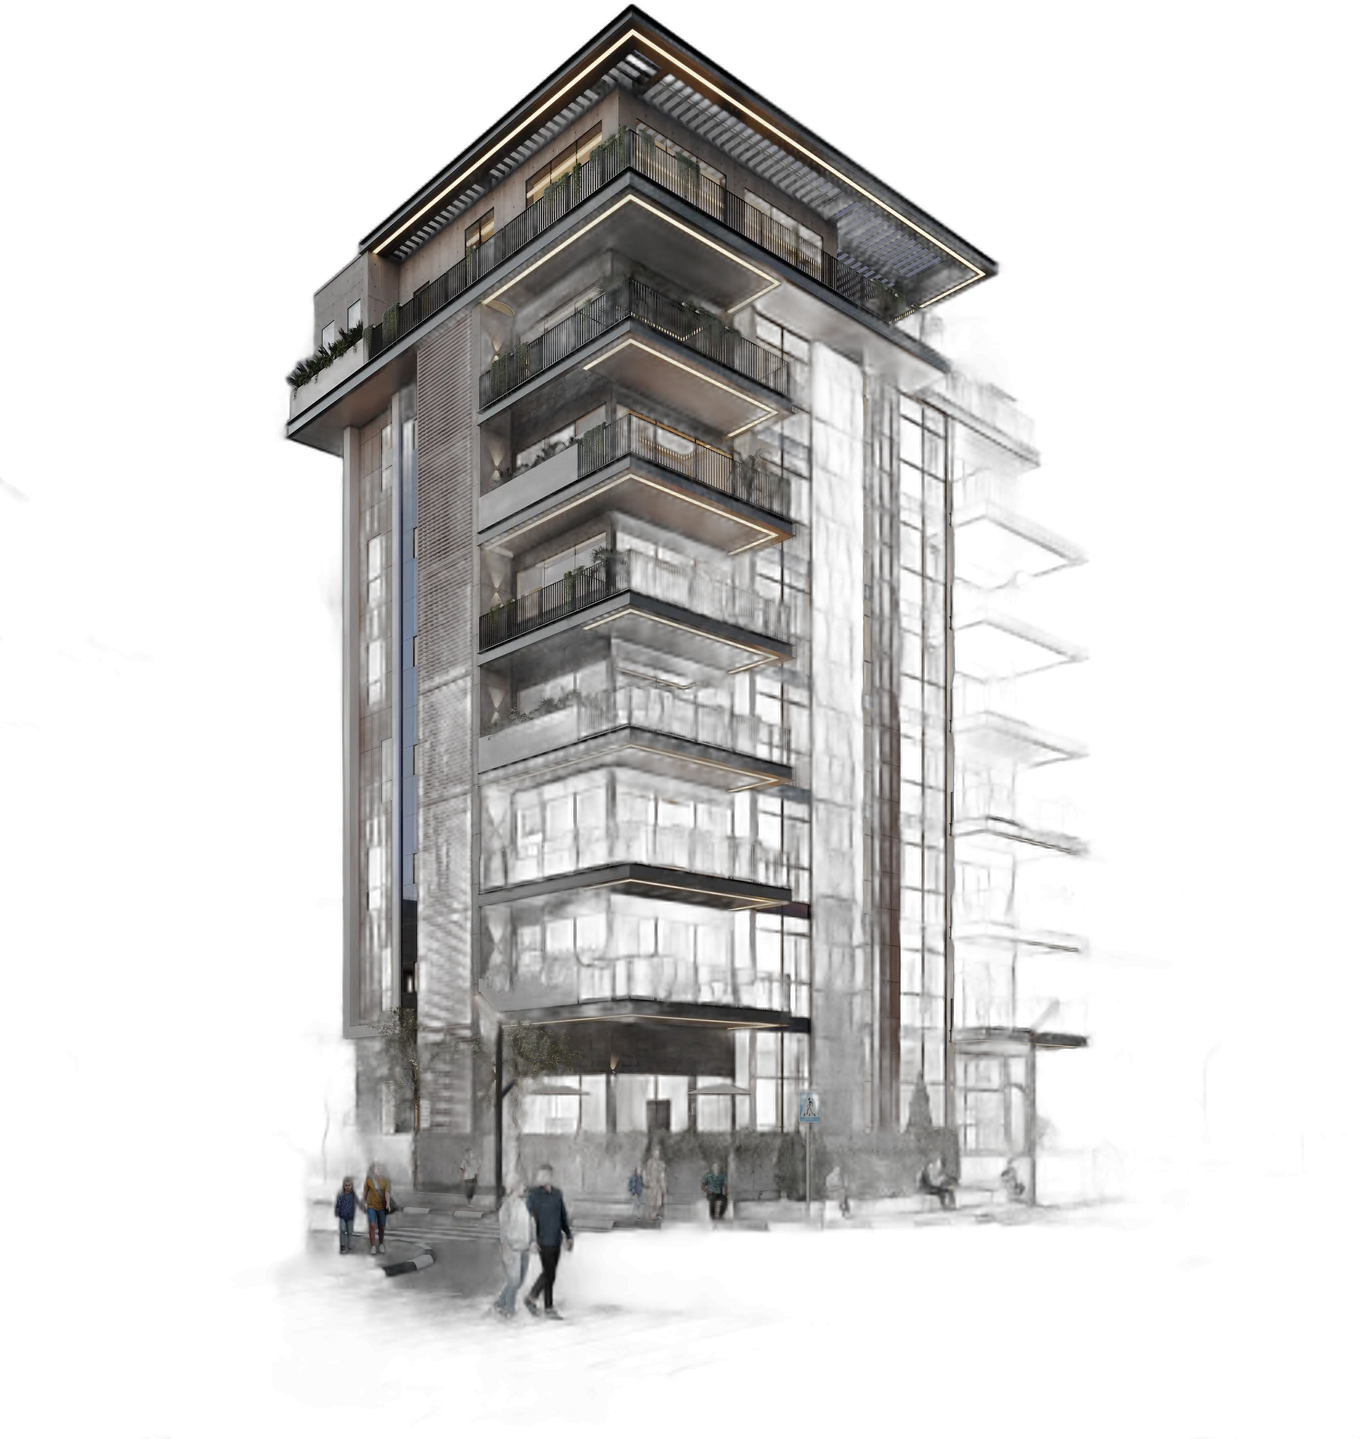
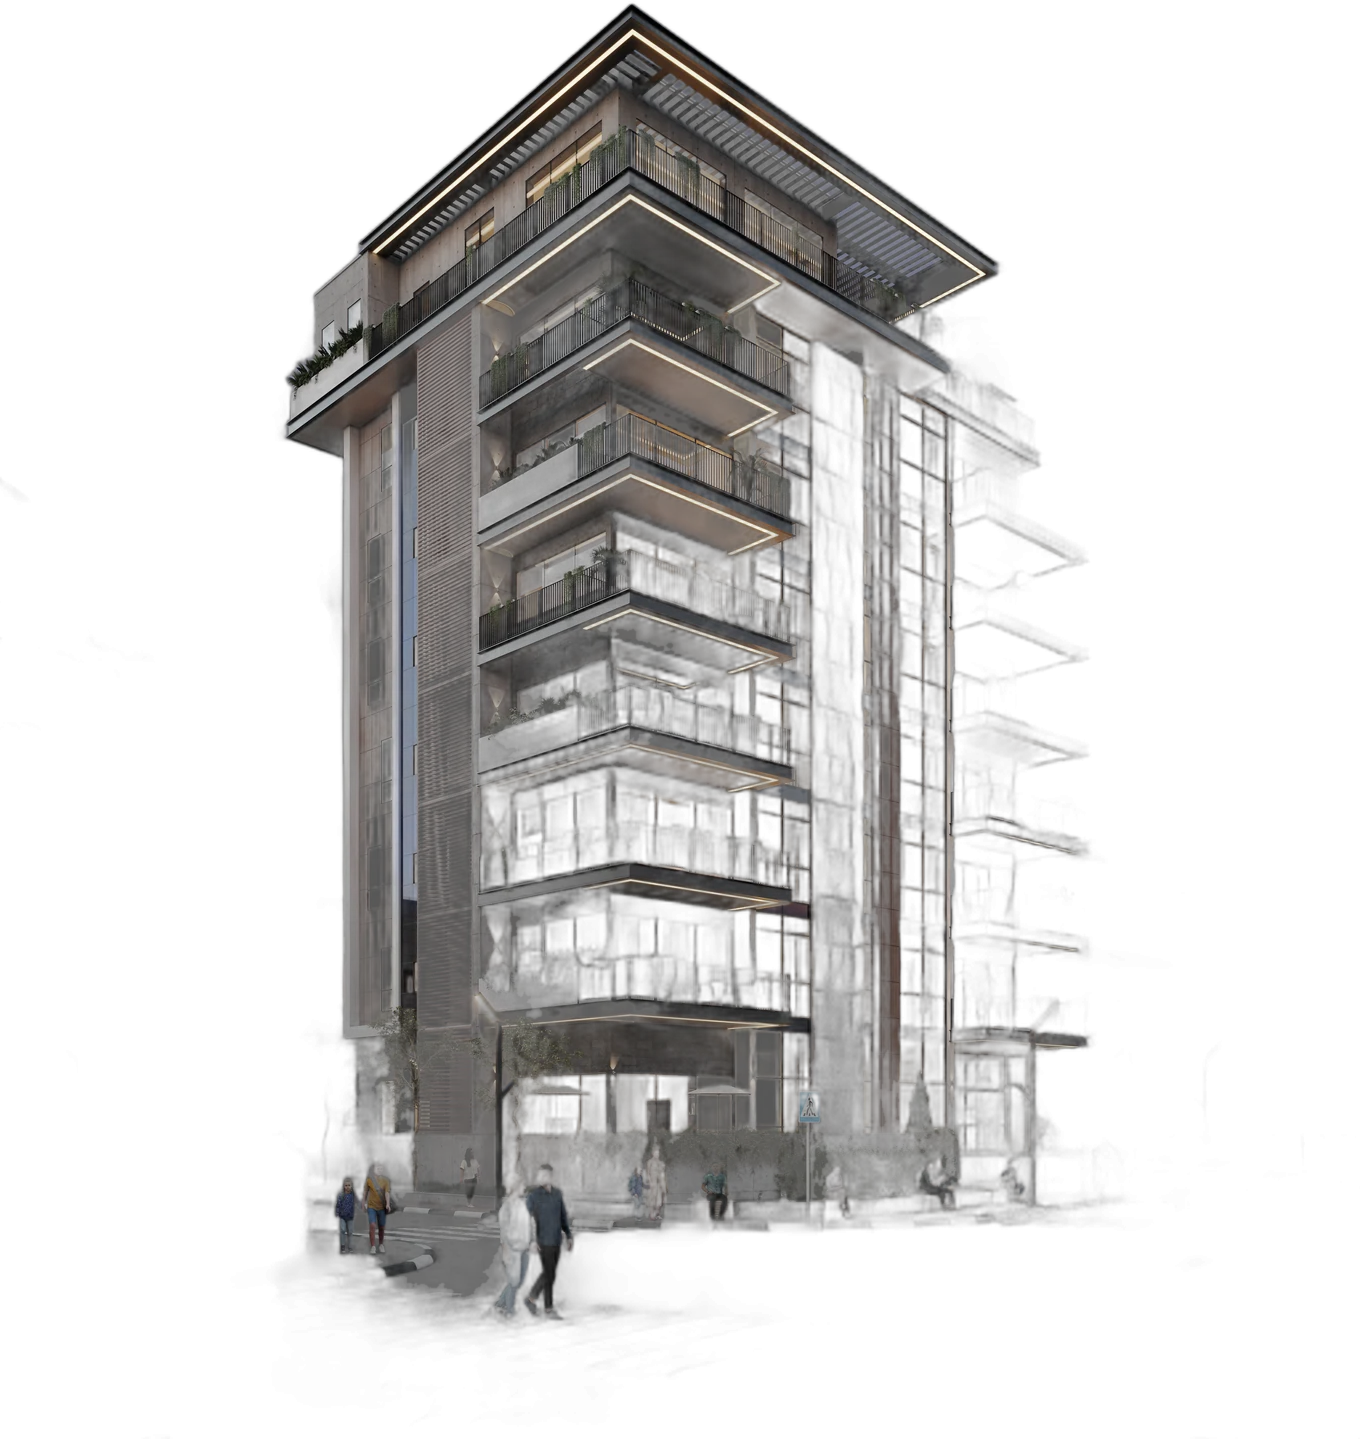
Cinema v3: camera orbits the building (3 scrolls) then enters the lobby (4th)
- Camera now circles Har Avital via rotateY (minimal vertical motion) instead of up/down
- Three faces cross-fade as it turns: front(day) → side → night, over the day→sunset→night sky
- Cutouts regenerated with interior holes filled (no more sky showing through the structure)
- Final scroll dollies the building toward the viewer and fades into the real lobby photo (enter)
- Lobby image EXIF-corrected + optimized; chapters condensed to 4 (hero, statement, domains, lobby)

diff --git a/index.html b/index.html
@@ -116,9 +116,16 @@
   .cino-warm{position:absolute;left:50%;top:50%;width:80vmin;height:80vmin;transform:translate(-50%,-50%);
     border-radius:50%;background:radial-gradient(circle,rgba(243,214,160,.55),rgba(243,214,160,0) 60%);filter:blur(10px);opacity:0;}
   .cino-build{position:relative;height:min(82vh,64vw);aspect-ratio:1360/1439;transform-style:preserve-3d;
-    will-change:transform;filter:drop-shadow(0 30px 38px rgba(18,16,28,.42));}
+    will-change:transform,opacity;filter:drop-shadow(0 30px 38px rgba(18,16,28,.42));}
   .cino-build .bl{position:absolute;inset:0;width:100%;height:100%;object-fit:contain;backface-visibility:hidden;}
-  .cino-build .bl.night{opacity:0;}
+  .cino-build .bl.side,.cino-build .bl.night{opacity:0;}
+
+  /* lobby — the camera "enters" on the final scroll */
+  .cino-lobby{position:absolute;inset:0;opacity:0;overflow:hidden;will-change:opacity;}
+  .cino-lobby img{width:100%;height:100%;object-fit:cover;transform:scale(1.28);transform-origin:50% 42%;will-change:transform;}
+  .cino-lobby::after{content:"";position:absolute;inset:0;
+    background:radial-gradient(125% 95% at 50% 38%, rgba(10,8,14,0) 42%, rgba(10,8,14,.55) 100%);}
+  .lobby-panel{text-shadow:0 2px 24px rgba(0,0,0,.55);}
 
   .cino-scrim{position:absolute;inset-inline:0;bottom:0;height:44vh;display:none;pointer-events:none;
     background:linear-gradient(0deg,rgba(8,10,22,.52) 4%,rgba(8,10,22,0) 58%);}
@@ -378,14 +385,19 @@
     <div class="cino-glow" id="cinoGlow"></div>
     <div class="cino-warm" id="cinoWarm"></div>
     <div class="cino-build" id="cinoBuild">
-      <img class="bl lit"   id="blLit"   src="assets/har-avital/cut/side.webp"  alt="הר אביטל" />
+      <img class="bl day"   id="blDay"   src="assets/har-avital/cut/day.webp"   alt="הר אביטל — חזית" />
+      <img class="bl side"  id="blSide"  src="assets/har-avital/cut/side.webp"  alt="הר אביטל — צד" />
       <img class="bl night" id="blNight" src="assets/har-avital/cut/night.webp" alt="הר אביטל — לילה" />
     </div>
   </div>
+
+  <!-- lobby layer (camera enters on the final scroll) -->
+  <div class="cino-lobby" id="cinoLobby"><img src="assets/har-avital/cut/lobby.webp" alt="לובי הכניסה" /></div>
+
   <div class="cino-scrim"></div>
 
   <div class="cino-chapters" id="cinoChapters">
-    <!-- 0 · Hero -->
+    <!-- 0 · Hero (front) -->
     <div class="cchap" data-ch="0">
       <div class="cpanel pos-hero">
         <div class="eyebrow ce">נדל״ן · התחדשות עירונית · בנייה</div>
@@ -394,42 +406,37 @@
         <a href="#projects" class="ccta" data-hot><span class="ln2"></span> גלו את הפרויקטים</a>
       </div>
     </div>
-    <!-- 1 · Statement -->
+    <!-- 1 · Statement (orbit → side) -->
     <div class="cchap" data-ch="1">
       <div class="cpanel pos-center">
         <p class="big">בית טוב לא נמדד ביום המסירה —<br><b>אלא בעשרים השנה שאחריו.</b></p>
       </div>
     </div>
-    <!-- 2 · Domain A -->
+    <!-- 2 · Domains (orbit → other side, dusk) -->
     <div class="cchap" data-ch="2">
       <div class="cpanel pos-right">
-        <div class="dnum">א׳ · תחום ראשון</div>
-        <h2>התחדשות <em>עירונית</em></h2>
-        <p class="ctext">פינוי-בינוי ותמ״א — הופכים מתחמים ותיקים לשכונות חדשות, עם ליווי הדיירים בכל שלב ושקיפות מלאה.</p>
+        <div class="dnum">שלושה תחומים · בית אחד</div>
+        <h2>שלוש דרכים <em>לבנות בית.</em></h2>
+        <p class="ctext">
+          <b style="color:var(--green)">התחדשות עירונית</b> — פינוי-בינוי ותמ״א.<br>
+          <b style="color:var(--green)">מחיר למשתכן</b> — דירה ראשונה לזוגות צעירים.<br>
+          <b style="color:var(--green)">בנייה למגורים</b> — מגדלי בוטיק חדשים.
+        </p>
         <div class="led-bars"><i></i><i></i><i></i><i></i><i></i></div>
       </div>
     </div>
-    <!-- 3 · Domain B -->
+    <!-- 3 · Lobby (enter the building) -->
     <div class="cchap" data-ch="3">
-      <div class="cpanel pos-left">
-        <div class="dnum">ב׳ · תחום שני</div>
-        <h2>מחיר <em>למשתכן</em></h2>
-        <p class="ctext">מימוש מכרזי המדינה לדירה ראשונה — מלווים זוגות צעירים ומשפחות מההגרלה ועד קבלת המפתח.</p>
-        <div class="led-bars"><i></i><i></i><i></i><i></i><i></i></div>
-      </div>
-    </div>
-    <!-- 4 · Domain C -->
-    <div class="cchap" data-ch="4">
-      <div class="cpanel pos-bottom">
-        <div class="dnum">ג׳ · תחום שלישי</div>
-        <h2>בנייה <em>למגורים</em></h2>
-        <p class="ctext">מגדלי בוטיק ופרויקטים חדשים בשפה אדריכלית עכשווית — מהתכנון, דרך הביצוע, ועד המסירה.</p>
+      <div class="cpanel pos-center lobby-panel">
+        <div class="dnum" style="color:var(--led)">קומת הכניסה</div>
+        <h2>ברוכים הבאים <em style="color:#fff">הביתה.</em></h2>
+        <a href="#projects" class="ccta" data-hot style="color:#fff"><span class="ln2" style="background:var(--led)"></span> כנסו לפרויקטים</a>
       </div>
     </div>
   </div>
 
-  <div class="cino-rail" id="cinoRail"><i></i><i></i><i></i><i></i><i></i></div>
-  <div class="cino-count">פרק <b id="cinoCount">01</b> · 05</div>
+  <div class="cino-rail" id="cinoRail"><i></i><i></i><i></i><i></i></div>
+  <div class="cino-count">פרק <b id="cinoCount">01</b> · 04</div>
   <div class="cino-cue" id="cinoCue"><span></span>גלילה</div>
 </div>
 
@@ -635,9 +642,10 @@
 (function(){
   var reduce = matchMedia('(prefers-reduced-motion: reduce)').matches;
   var build  = document.getElementById('cinoBuild');
-  var blLit=document.getElementById('blLit'), blNight=document.getElementById('blNight');
+  var blDay=document.getElementById('blDay'), blSide=document.getElementById('blSide'), blNight=document.getElementById('blNight');
   var glow=document.getElementById('cinoGlow'), warm=document.getElementById('cinoWarm');
   var stage=document.getElementById('cinoStage');
+  var lobby=document.getElementById('cinoLobby'), lobbyImg=lobby.querySelector('img');
   var skySunset=document.getElementById('skySunset'), skyNight=document.getElementById('skyNight');
   var sun=document.getElementById('sun'), stars=document.getElementById('stars');
   var chaptersEl=document.getElementById('cinoChapters');
@@ -646,23 +654,21 @@
   var counter=document.getElementById('cinoCount');
   var cue=document.getElementById('cinoCue');
   var scrollEl=document.getElementById('cinoScroll');
-  var N=chapters.length;                 // cinematic chapters (5)
+  var N=chapters.length;                 // 4 chapters: front · side · other side · lobby
 
   function sizeSpacer(){ scrollEl.style.height=(N*100)+'svh'; }
   sizeSpacer();
-  if(reduce){ scrollEl.style.height='0'; return; } // reduced-motion: chapters stack via CSS
+  if(reduce){ scrollEl.style.height='0'; return; }
 
-  /* transform-only camera states (index 0..N; N = exit). x,y vw/vh · rx/ry/rz deg · s scale.
-     Sky, sun and the day→night building cross-fade are derived from overall progress. */
+  /* camera ORBIT states (index 0..N). Mostly rotateY (turn around the building),
+     minimal vertical motion; the final leg dollies in toward the lobby. */
   var S=[
-    {x:-4, y:-3, rx:4,  ry:-15, rz:-1, s:1.00}, // 0 hero
-    {x: 3, y: 9, rx:8,  ry:  3, rz: 1, s:0.84}, // 1 statement (descend)
-    {x:-15,y: 2, rx:6,  ry:-30, rz:-3, s:0.74}, // 2 domain A (turn left)
-    {x: 15,y: 4, rx:6,  ry: 30, rz: 3, s:0.74}, // 3 domain B (turn right)
-    {x: 0, y: 6, rx:-4, ry:  4, rz: 0, s:0.98}, // 4 domain C (face forward, night)
-    {x: 0, y:22, rx:-10,ry:  6, rz: 0, s:1.12}  // 5 exit (descend & fade)
+    {ry:-12, rx:5, s:1.00}, // 0 front
+    {ry: 30, rx:7, s:0.99}, // 1 swing to the side
+    {ry:-30, rx:7, s:0.99}, // 2 swing to the other side (dusk)
+    {ry:  0, rx:2, s:1.06}, // 3 face front, begin approach
+    {ry:  0, rx:0, s:1.12}  // 4 exit
   ];
-
   var mob = matchMedia('(max-width:980px)').matches;
   addEventListener('resize',function(){ mob=matchMedia('(max-width:980px)').matches; sizeSpacer(); });
 
@@ -672,64 +678,72 @@
   var DARK=[23,21,26], LIGHT=[244,242,236];
   function mix(c1,c2,t){return [Math.round(lerp(c1[0],c2[0],t)),Math.round(lerp(c1[1],c2[1],t)),Math.round(lerp(c1[2],c2[2],t))];}
 
-  var disp={x:-4,y:-3,rx:4,ry:-15,rz:-1,s:1.12};
-  var tgt ={x:-4,y:-3,rx:4,ry:-15,rz:-1,s:1.0};
+  var disp={ry:-12,rx:5,s:1.12}, tgt={ry:-12,rx:5,s:1.0};
   var t0=performance.now(), running=false;
 
   function compute(){
-    var sc = window.scrollY||window.pageYOffset||0;
-    var p  = clamp(sc/(N*innerHeight),0,1);
-    var f  = p*N, seg=clamp(Math.floor(f),0,S.length-2), t=smooth(clamp(f-seg,0,1));
+    var sc=window.scrollY||window.pageYOffset||0;
+    var p=clamp(sc/(N*innerHeight),0,1);
+    var f=p*N, seg=clamp(Math.floor(f),0,S.length-2), t=smooth(clamp(f-seg,0,1));
     var a=S[seg], b=S[seg+1];
-    var xS=mob?0.55:1, ryS=mob?0.6:1;
-    tgt.x=lerp(a.x,b.x,t)*xS;
-    tgt.y=lerp(a.y,b.y,t)+(mob?-6:0);
+    tgt.ry=lerp(a.ry,b.ry,t)*(mob?0.62:1);
     tgt.rx=lerp(a.rx,b.rx,t);
-    tgt.ry=lerp(a.ry,b.ry,t)*ryS;
-    tgt.rz=lerp(a.rz,b.rz,t);
-    tgt.s=lerp(a.s,b.s,t)*(mob?0.94:1);
+    tgt.s =lerp(a.s,b.s,t)*(mob?0.9:1);
 
-    /* ---- day → sunset → night ---- */
-    var nightW =clamp((p-0.6)/0.34,0,1);
-    var sunsetW=clamp(1-Math.abs(p-0.52)/0.36,0,1);
-    skySunset.style.opacity=sunsetW.toFixed(3);
-    skyNight.style.opacity =nightW.toFixed(3);
-    stars.style.opacity    =nightW.toFixed(3);
-    var sunP=clamp(p/0.62,0,1);
-    sun.style.top=lerp(16,86,sunP).toFixed(1)+'%';
-    sun.style.opacity=clamp(1-Math.max(0,(p-0.5)/0.18),0,1).toFixed(3);
-    /* building lights up at night */
+    /* face cross-fade: front → side → night, as the camera circles */
+    var dayW  =clamp(1-p/0.24,0,1);
+    var nightW=clamp((p-0.40)/0.30,0,1);
+    var sideW =clamp(1-dayW-nightW,0,1);
+    blDay.style.opacity=dayW.toFixed(3);
+    blSide.style.opacity=sideW.toFixed(3);
     blNight.style.opacity=nightW.toFixed(3);
-    blLit.style.opacity=(1-nightW*0.96).toFixed(3);
-    warm.style.opacity=(nightW*0.7).toFixed(3);
-    glow.style.opacity=(0.03+nightW*0.07).toFixed(3);
-    /* adaptive text colour (desktop; mobile uses a fixed light tone over the scrim) */
-    if(!mob){ var c=mix(DARK,LIGHT,clamp((p-0.5)/0.32,0,1)); chaptersEl.style.color='rgb('+c[0]+','+c[1]+','+c[2]+')'; }
+
+    /* sky day → sunset → night */
+    var skyNightW=clamp((p-0.46)/0.28,0,1);
+    var sunsetW=clamp(1-Math.abs(p-0.40)/0.34,0,1);
+    skySunset.style.opacity=sunsetW.toFixed(3);
+    skyNight.style.opacity =skyNightW.toFixed(3);
+    stars.style.opacity    =skyNightW.toFixed(3);
+    var sunP=clamp(p/0.5,0,1);
+    sun.style.top=lerp(16,88,sunP).toFixed(1)+'%';
+    sun.style.opacity=clamp(1-Math.max(0,(p-0.4)/0.16),0,1).toFixed(3);
+    warm.style.opacity=(skyNightW*0.65).toFixed(3);
+    glow.style.opacity=(0.03+skyNightW*0.06).toFixed(3);
+
+    /* lobby entry — camera passes through the doors on the final leg */
+    var lobbyW=clamp((p-0.74)/0.24,0,1), ls=smooth(lobbyW);
+    lobby.style.opacity=lobbyW.toFixed(3);
+    lobbyImg.style.transform='scale('+lerp(1.28,1.0,ls).toFixed(3)+')';
+    build.style.opacity=(1-lobbyW).toFixed(3);
+    tgt.s=tgt.s*(1+lobbyW*1.4); // dolly the building toward us as we enter
+
+    /* adaptive text colour (lobby chapter text is already light via inline styles) */
+    if(!mob){ var c=mix(DARK,LIGHT,clamp((p-0.34)/0.28,0,1)); chaptersEl.style.color='rgb('+c[0]+','+c[1]+','+c[2]+')'; }
 
     /* chapter text cross-fade */
     var fc=p*N;
     chapters.forEach(function(ch,i){
       var o=clamp(1-Math.abs(fc-(i+0.5))/0.6,0,1);
       ch.style.opacity=o.toFixed(3);
-      ch.style.transform='translateY('+((fc-(i+0.5))*-2.4)+'vh)';
+      ch.style.transform='translateY('+((fc-(i+0.5))*-2.2)+'vh)';
     });
     var active=clamp(Math.floor(p*N),0,N-1);
     rail.forEach(function(d,i){d.classList.toggle('on',i===active);});
     if(counter) counter.textContent=('0'+(active+1)).slice(-2);
     if(cue) cue.style.opacity = p<0.06?1:0;
-    stage.style.opacity = (p<0.92?1:clamp(1-(p-0.92)/0.08,0,1)).toFixed(3);
+    stage.style.opacity = (p<0.94?1:clamp(1-(p-0.94)/0.06,0,1)).toFixed(3);
     return p;
   }
 
   function frame(now){
     var p=compute();
-    var e=mob?0.16:0.11, settled=true;
-    ['x','y','rx','ry','rz','s'].forEach(function(k){
+    var e=mob?0.16:0.10, settled=true;
+    ['ry','rx','s'].forEach(function(k){
       disp[k]=lerp(disp[k],tgt[k],e); if(Math.abs(disp[k]-tgt[k])>0.001) settled=false;
     });
-    var time=(now-t0)/1000, bobY=Math.sin(time*0.8)*0.5, bobR=Math.sin(time*0.5)*1.0;
-    build.style.transform='perspective(1500px) translate3d('+disp.x.toFixed(3)+'vw,'+(disp.y+bobY).toFixed(3)+'vh,0) '+
-      'rotateX('+disp.rx.toFixed(2)+'deg) rotateY('+(disp.ry+bobR).toFixed(2)+'deg) rotateZ('+disp.rz.toFixed(2)+'deg) scale('+disp.s.toFixed(3)+')';
+    var time=(now-t0)/1000, bobY=Math.sin(time*0.7)*0.5, bobR=Math.sin(time*0.45)*0.9;
+    build.style.transform='perspective(1600px) translate3d(0,'+bobY.toFixed(3)+'vh,0) '+
+      'rotateX('+disp.rx.toFixed(2)+'deg) rotateY('+(disp.ry+bobR).toFixed(2)+'deg) scale('+disp.s.toFixed(3)+')';
     if(p>=1 && settled){ running=false; return; }
     requestAnimationFrame(frame);
   }